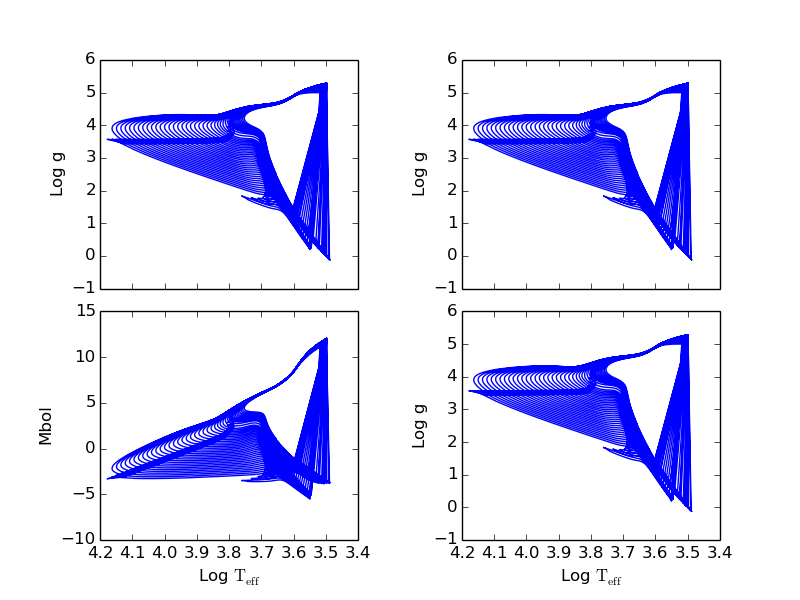
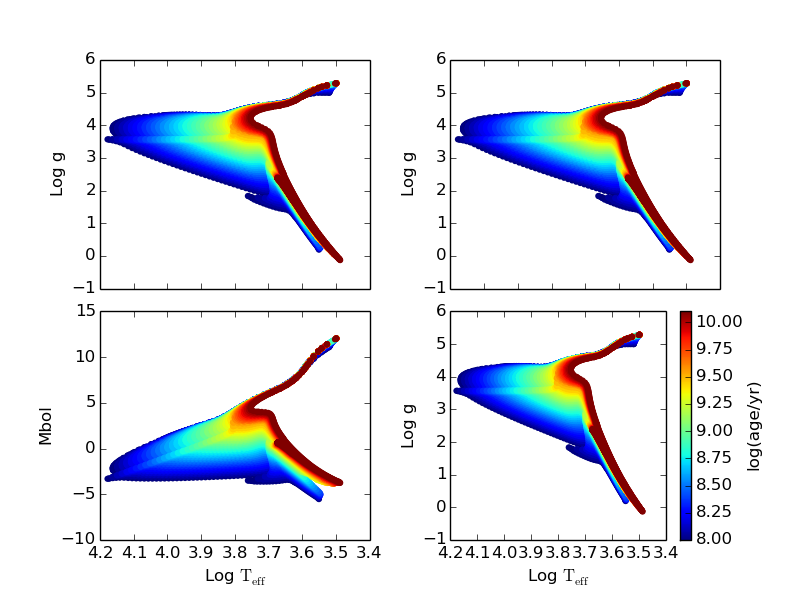
updating isochrone module

Changed region(s): [[0.5, 0.09, 0.9688, 0.99], [0.125, 0.51, 0.4688, 0.99], [0.125, 0.09, 0.4688, 0.48]]

diff --git a/isochrone/isochrones.py b/isochrone/isochrones.py
@@ -39,12 +39,15 @@ def plot_iso(infile,age=None,outfile=None,show=False):
     fig, axes = plt.subplots(2,2)
     ax0, ax1, ax2, ax3 = axes.flat
 
-    plt.subplots_adjust(left=None, bottom=None, right=None, top=None, wspace=0.4, hspace=0.1)
+    plt.subplots_adjust(left=None, bottom=None, right=None, top=None, wspace=0.3, hspace=0.1)
 
-    ax0.plot(data['logTe'],data['logG'])
-    ax2.plot(data['logTe'],data['mbol'])
-    ax1.plot(data['logTe'],data['logG'])
-    ax3.plot(data['logTe'],data['logG'])
+    sc=ax0.scatter(data['logTe'],data['logG'],c=data['log(age/yr)'],cmap='jet',edgecolors='none')
+    ax2.scatter(data['logTe'],data['mbol'],c=data['log(age/yr)'],cmap='jet',edgecolors='none')
+    ax1.scatter(data['logTe'],data['logG'],c=data['log(age/yr)'],cmap='jet',edgecolors='none')
+    ax3.scatter(data['logTe'],data['logG'],c=data['log(age/yr)'],cmap='jet',edgecolors='none')
+
+    cbar=plt.colorbar(sc)
+    cbar.set_label('log(age/yr)')
 
     ax2.set_xlabel(r'Log $\rm T_{eff}$')
     ax3.set_xlabel(r'Log $\rm T_{eff}$')
